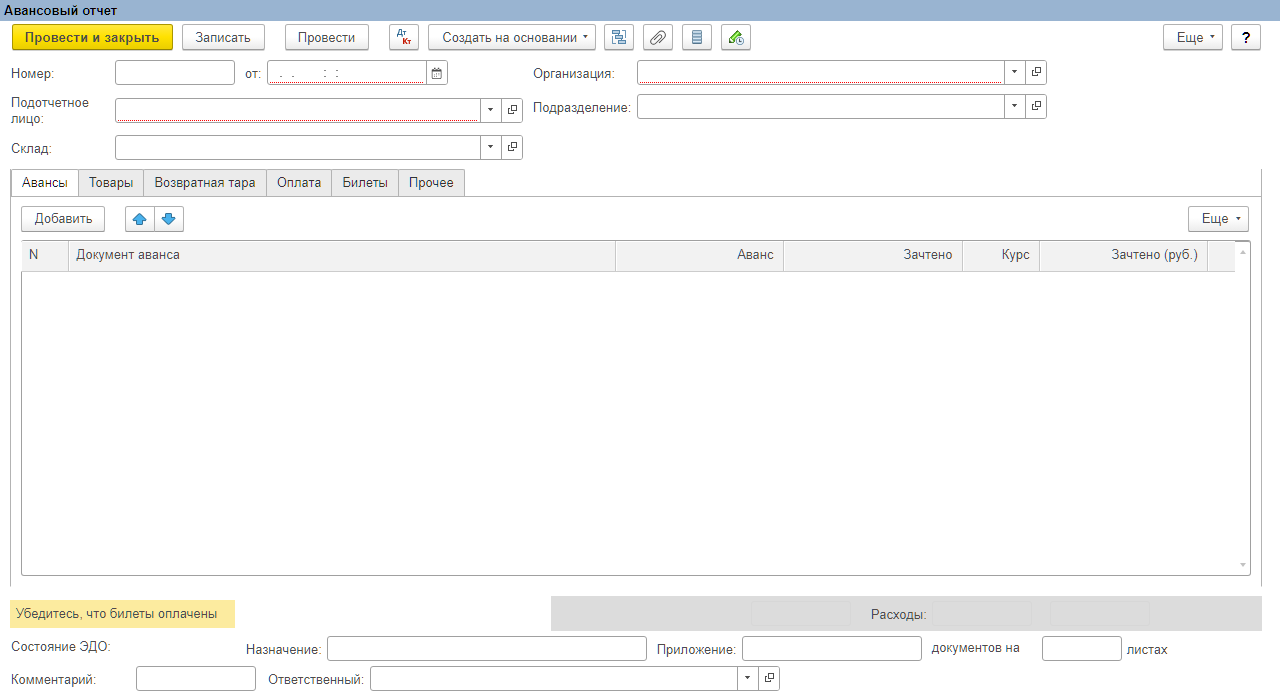
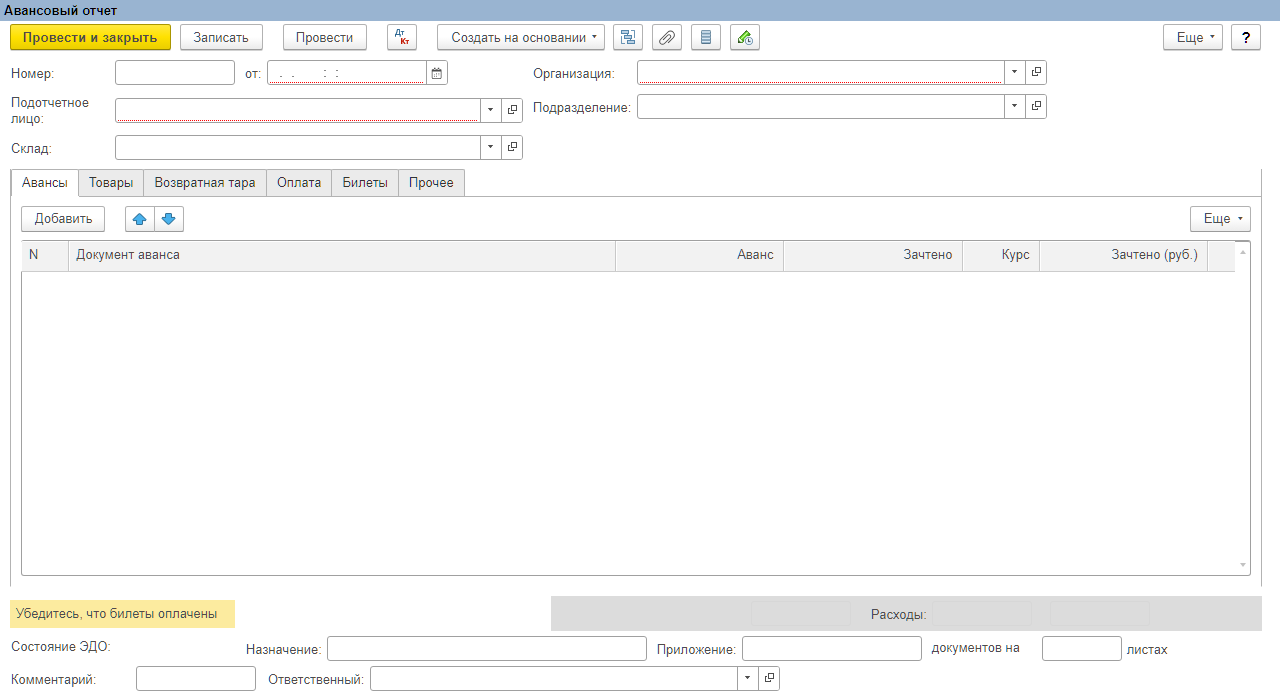
feat(forms): панель команд и вкладки по эталону конфигуратора
Полоса команд формы была самой крупной полосой расхождения (4 921 px).
Нашлось три ошибки раскладки и две — в полосе вкладок:

* первая кнопка полосы вставала на x=12 вместо 10: у viewer.css у полосы
  padding-left 2px, теперь 0 — жёлтая заливка 11…169, как в эталоне;
* после группы важных команд (Дт/Кт) платформа оставляет на 11 px больше:
  «Создать на основании» встаёт на 437, а не на 426, и три значка глобальных
  команд возвращаются на 652/691/720/730/759. Похоже, платформа держит место
  под пункт «Печать» из той же группы, которого в предпросмотре не видно;
* у полосы команд таблицы снят правый отступ 2 px: «Ещё» упирается в рамку
  таблицы, x=958;
* под активной вкладкой прерывается нижняя линия полосы вкладок — вкладка
  стыкуется со страницей (пиксельная тень + overflow: clip с запасом 1 px,
  иначе тень режется по padding-краю);
* подпись активной вкладки красится #333333, как и остальные (было #1a1a1a).

Замер 988×438 (порог 24 на канал): 17 043 → 14 376 (3,94 % → 3,32 %).
Полоса команд формы 4 921 → 2 496, полоса команд таблицы 1 653 → 1 503,
вкладки 2 768 → 2 676. Остаток — растеризация текста; хинтинг, text-stroke и
letter-spacing проверены и отброшены замером, 1 px сдвиг содержимого строк
тоже (правится в раскладке рендерера). Подробности — docs/form-exact-view.md,
раздел «Сверка после правки панели команд».

Changed region(s): [[0.0, 0.03, 0.5938, 0.09], [0.9375, 0.3, 0.9688, 0.33]]

diff --git a/resources/formpreview/css/qv8-host.css b/resources/formpreview/css/qv8-host.css
@@ -44,6 +44,51 @@ html, body {
     padding-top: 0 !important;
     padding-bottom: 0 !important;
 }
+/* Платформа отделяет группу важных команд (Дт/Кт) от остальных команд панели
+ * шире обычного зазора группы: в эталоне кнопка «Создать на основании» стоит
+ * на x=437, у нас вставала на 426 — и вместе с ней уезжали три значка
+ * глобальных команд (652/691/720/730/759 против 641/680/709/719/748).
+ * Похоже, платформа держит место под пункт «Печать» из той же группы, которого
+ * в предпросмотре не видно: между рамками 21 px вместо 10. */
+.fp-mockup .fp-commandbar .fp-buttongroup > .fp-item[data-name="ГруппаВажныеКоманды"] {
+    margin-right: 11px !important;
+}
+/* Полоса команд таблицы: у платформы кнопка «Ещё» справа упирается в рамку
+ * таблицы, x=958; viewer.css держит справа 2 px, и кнопка вставала на 956. */
+.fp-mockup .fp-table-toolbar {
+    padding-right: 0 !important;
+}
+
+/* Полоса вкладок: активная вкладка у платформы стыкуется со страницей — нижняя
+ * линия полосы (y=196, #b3b3b3) под ней прерывается (в эталоне под «Авансами»
+ * белый пиксель, а с x=80 линия 179). У нас линия шла по всей ширине. Тень
+ * только у верхней полосы: у вкладок снизу линия сверху, у вкладок слева — справа.
+ * Заодно подпись активной вкладки платформа красит тем же #333333, что и
+ * остальные: в эталоне самый тёмный пиксель подписи 51, у нас было 26. */
+.fp-mockup .fp-pages-outer:not(.TabsOnBottom, .TabsOnLeftHorizontal)
+    .fp-pages-tab[aria-selected="true"] {
+    box-shadow: 0 1px 0 0 #fff;
+}
+/* Обрезка полосы вкладок (overflow: hidden) отсекала этот пиксель: она
+ * режет по padding-краю, а линия лежит в рамке. overflow: clip с запасом
+ * 1 px пускает тень активной вкладки поверх линии. */
+.fp-mockup .fp-pages-outer:not(.TabsOnBottom, .TabsOnLeftHorizontal)
+    .fp-pages-tablist {
+    overflow: clip !important;
+    overflow-clip-margin: 1px;
+}
+.fp-mockup .fp-pages-tab[aria-selected="true"],
+.fp-mockup .fp-pages-tab[aria-selected="true"] .fp-page-tab-title {
+    color: #333333 !important;
+}
+
+/* Панель команд формы: у платформы первая кнопка начинается по краю рамки
+ * формы, x=10, а viewer.css держит у полосы padding-left 2px — кнопка
+ * вставала на 12 (жёлтая заливка 13…171 вместо 11…169), и весь текст полосы
+ * уезжал на 2px вправо. */
+.fp-mockup > .fp-item[data-tag="AutoCommandBar"] > .fp-control-wrap > .fp-commandbar {
+    padding-left: 0 !important;
+}
 /* Оболочка оставляет под шапкой 2 px, и страница встаёт на 2 px ниже: рамка
  * страницы 171 вместо 169, а вместе с ней уезжает вся таблица. Верхние строки
  * шапки при этом совпадают попиксельно, поэтому подтягивается только страница. */

diff --git a/CHANGELOG.md b/CHANGELOG.md
@@ -4,6 +4,23 @@
 
 ### Исправлено
 
+- Точный вид: панель команд формы начинается по краю рамки. `viewer.css`
+  держит у полосы `padding-left: 2px`, и первая кнопка вставала на x=12:
+  жёлтая заливка «Провести и закрыть» занимала 13…171 вместо 11…169, а вместе с
+  кнопкой на 2 px вправо уезжал весь текст полосы.
+- Точный вид: после группы важных команд (значок Дт/Кт) платформа оставляет
+  на 11 px больше, чем обычный зазор группы. Кнопка «Создать на основании»
+  вставала на 426 вместо 437, и вместе с ней уезжали три значка глобальных
+  команд (641/680/709/719/748 против 652/691/720/730/759).
+- Точный вид: у полосы команд таблицы снят правый отступ 2 px — кнопка «Ещё»
+  стоит по правому краю полотна, x=958, как в эталоне.
+- Точный вид: активная вкладка стыкуется со страницей. Нижняя линия полосы
+  вкладок (y=196, #b3b3b3) под ней прерывается, а у нас шла по всей ширине;
+  линию закрывает пиксельная тень вкладки, для чего полоса обрезается
+  `overflow: clip` с запасом 1 px (при `hidden` тень режется по padding-краю).
+- Точный вид: подпись активной вкладки красится #333333, как и остальные
+  вкладки. У нас она была темнее (#1a1a1a): в эталоне самый тёмный пиксель
+  подписи — 51, у нас был 26.
 - Точный вид: дорожка прокрутки таблицы стала 16 px (было 12) — как у
   платформы (15 px дорожки и 1 px рамки). Под колонки уходило 926 px из 938, и
   единственная растягиваемая колонка «Документ аванса» получала 259 px вместо
@@ -38,10 +55,10 @@
   флагом Chromium дорожку не занимает и снимок мерил не то, что видно.
 
 Суммарный эффект сверки с конфигуратором по форме «Авансового отчёта»
-(988×438, порог 24 на канал): 26 838 → 17 043 различающихся пикселя
-(6,2 % → 3,94 %). Замеры и оставшиеся расхождения — в
-`docs/form-exact-view.md`, раздел «Сверка после правки дорожки прокрутки
-таблицы».
+(988×438, порог 24 на канал): 26 838 → 14 376 различающихся пикселя
+(6,2 % → 3,32 %). Замеры и оставшиеся расхождения — в
+`docs/form-exact-view.md`, разделы «Сверка после правки дорожки прокрутки
+таблицы» и «Сверка после правки панели команд».
 
 ## [0.11.0] — 2026-11-24
 
